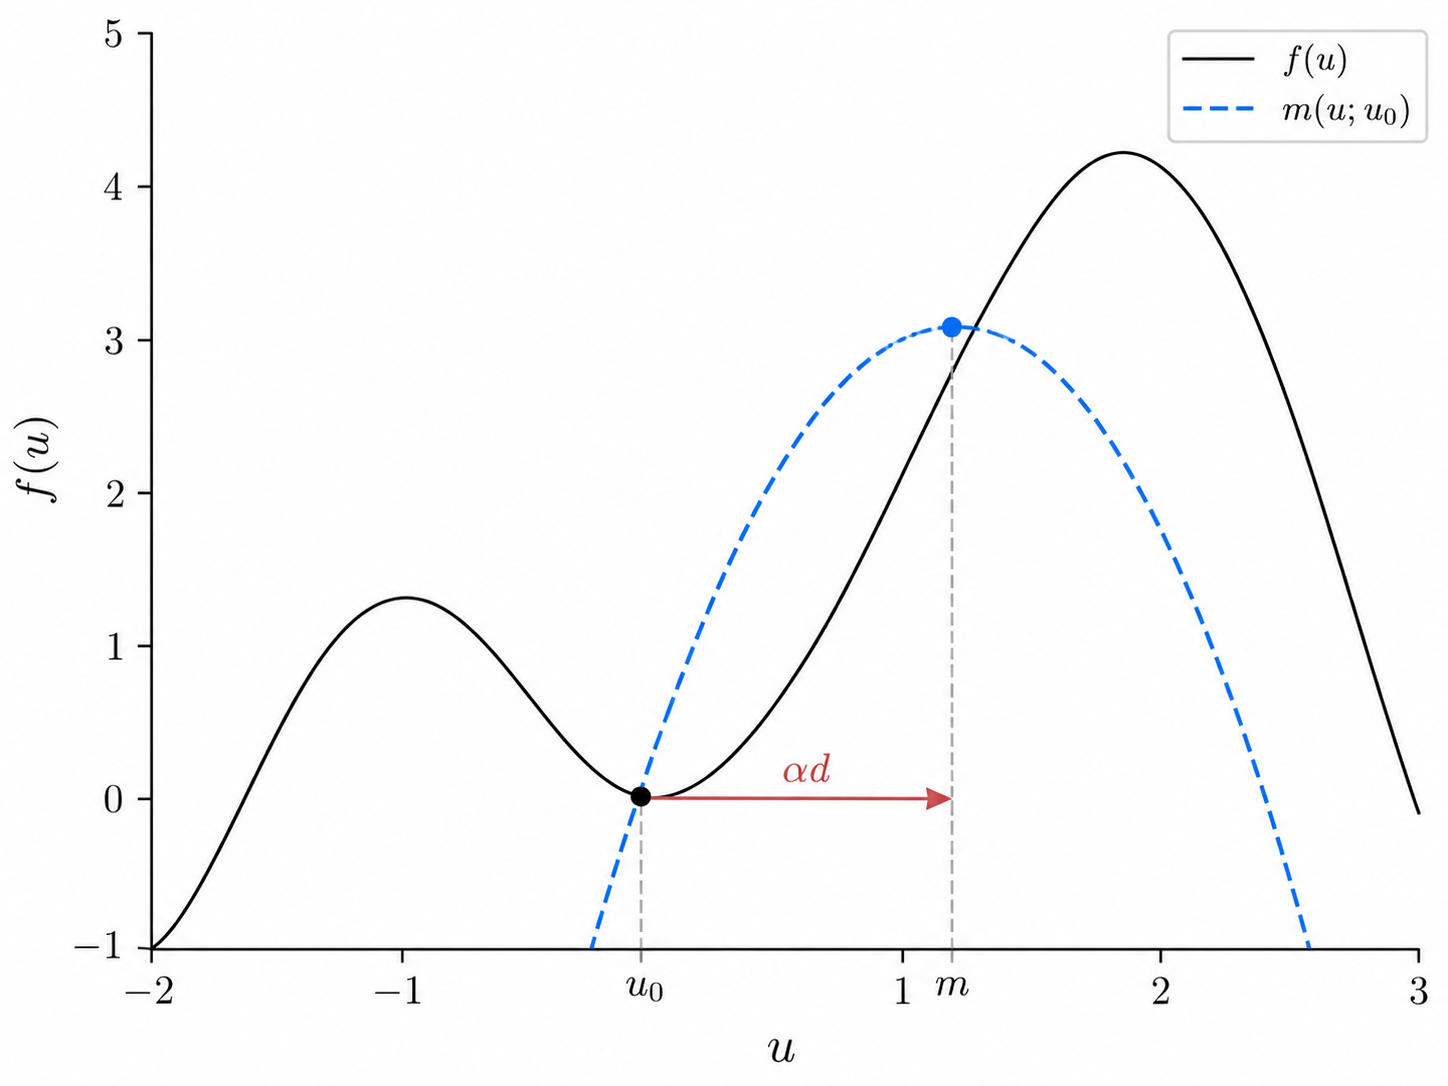
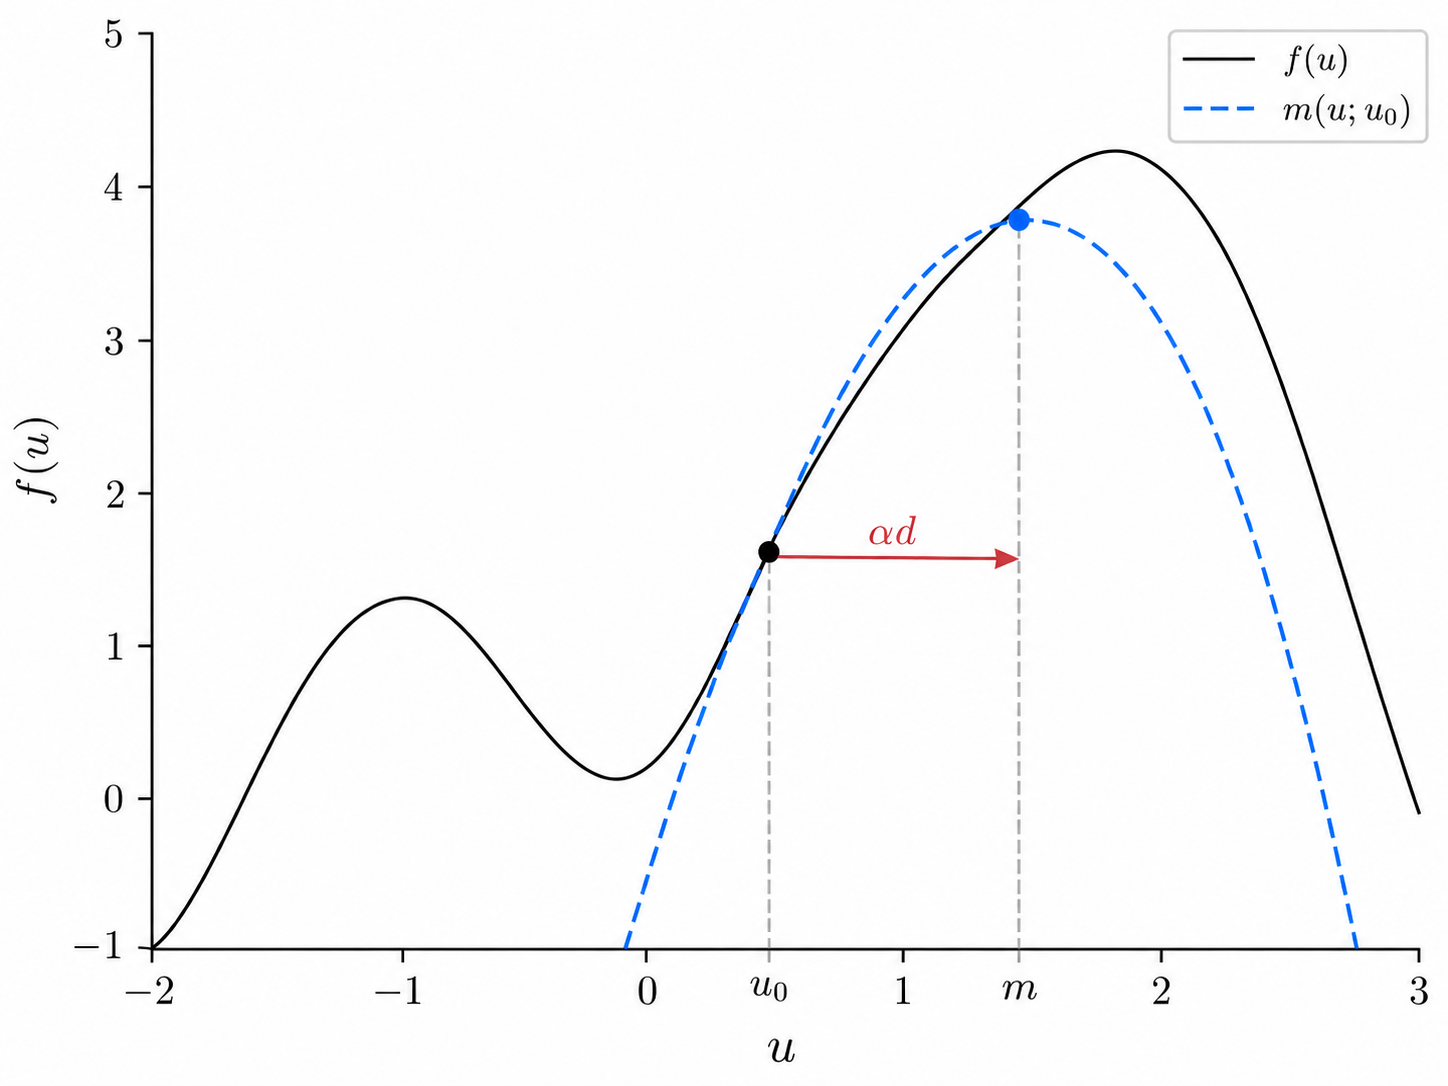
update newton

diff --git a/docs/math.md b/docs/math.md
@@ -18,7 +18,7 @@ $$
 \text{parameter fitting}.
 $$
 
-When exact chain structure breaks, `xxm` introduces only the additional machinery needed to restore a tractable approximation:
+When exact Gaussian structure breaks, `xxm` introduces only the additional machinery needed to restore a tractable local approximation:
 
 $$
 \text{Newton optimization}
@@ -1883,7 +1883,7 @@ $$
 
 together with the local marginals needed for inference and learning, without solving the corresponding unstructured global problem.
 
-![Local chain factors and the corresponding block-tridiagonal precision structure of a Gaussian chain.](img/chain.png)
+![A chain of variables with unary potentials and nearest-neighbor coupling.](img/chain.png)
 
 ### 1.5.1 Discrete chains
 
@@ -3516,7 +3516,7 @@ J^\star
 -\nabla^2\Psi(u^\star)
 $$
 
-be the negative Hessian of the complete log target.
+be the negative Hessian of the complete log target. Assume $u^\star$ is a local maximum and that $J^\star$ is positive definite, so the quadratic approximation defines a normalized Gaussian.
 
 The Laplace approximation replaces the target locally by
 
@@ -4047,7 +4047,7 @@ Here $A_{k,\ell}$ is an autoregressive coefficient for state $k$ and lag $\ell$.
 
 ![Graphical model for an autoregressive hidden Markov model with one displayed observation lag.](img/arhmm_graphical_model.png)
 
-The diagram shows the first-order case for clarity. For $L>1$, each modeled observation also depends on the additional preceding observations included in its lagged predictor.
+The diagram shows the first-order case for clarity. For $L>1$, each modeled observation also depends on the additional preceding observations included in its lagged predictor. The fixed prehistory used for finite-sequence inference is omitted from the diagram.
 
 ### Fixed observation history
 
@@ -4509,6 +4509,31 @@ $$
 $$
 
 and is not quadratic.
+
+Defining
+
+$$
+\lambda_t=\exp(Cx_t+d),
+$$
+
+the gradient of the log likelihood is
+
+$$
+\nabla_{x_t}\log p(y_t\mid x_t)
+=
+C^\top(y_t-\lambda_t),
+$$
+
+and the negative Hessian is
+
+$$
+-\nabla^2_{x_t}\log p(y_t\mid x_t)
+=
+C^\top\operatorname{diag}(\lambda_t)C
+\succeq 0.
+$$
+
+This local curvature is exactly what Newton's method and the Laplace approximation turn into a unary Gaussian potential over $x_t$.
 
 Therefore the posterior
 
